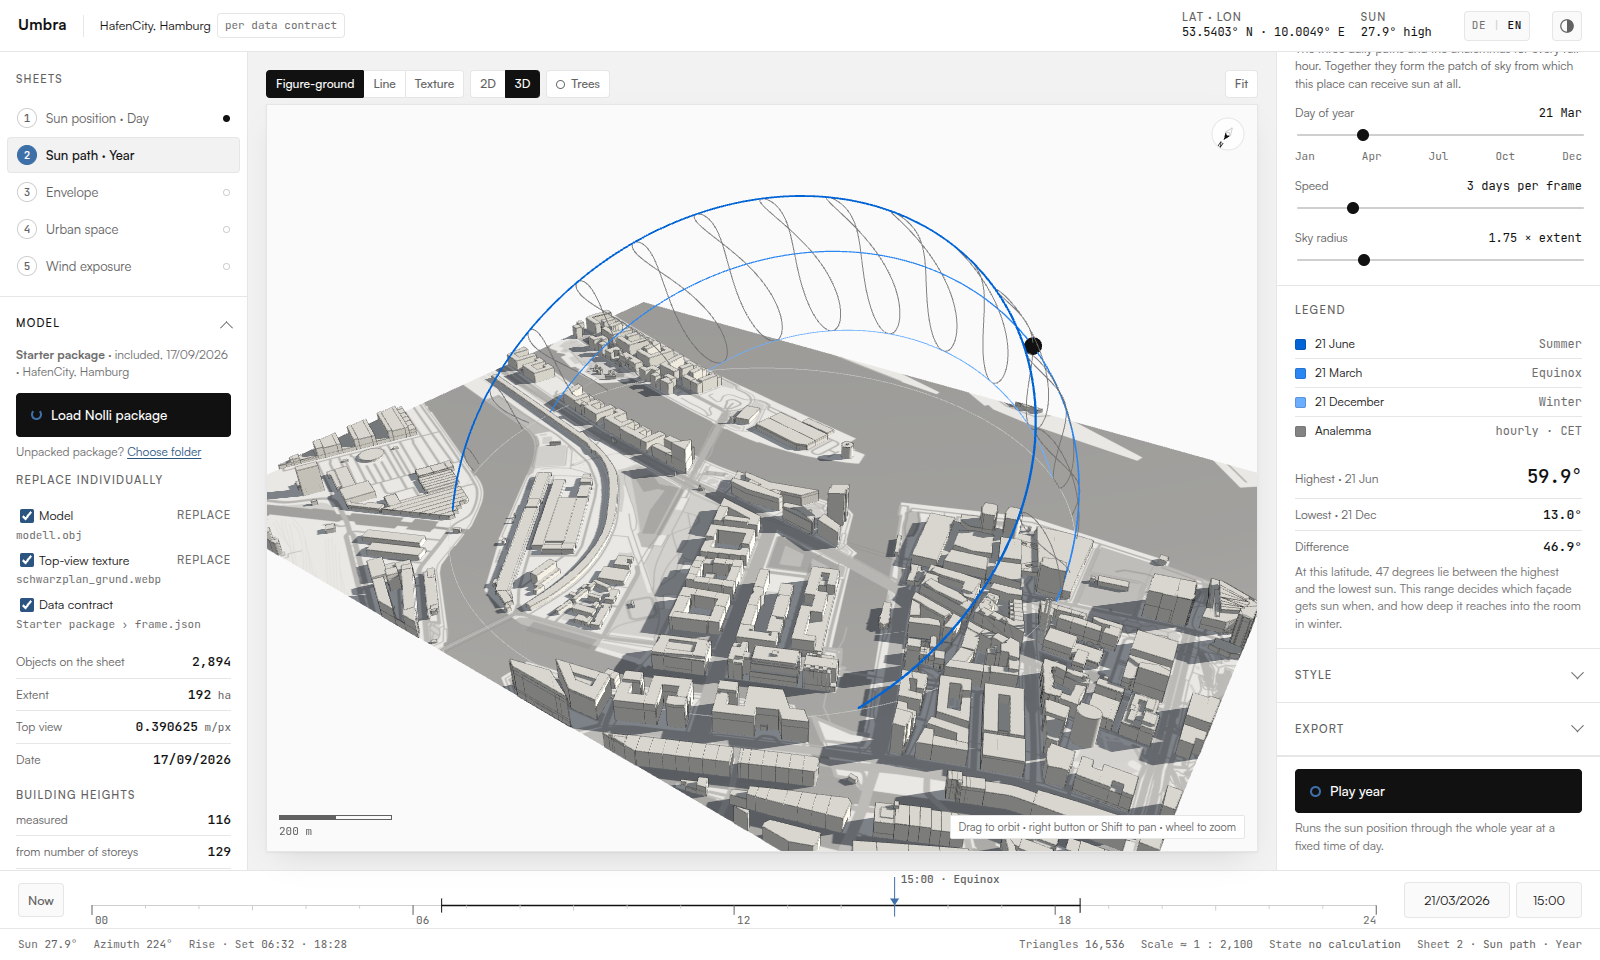
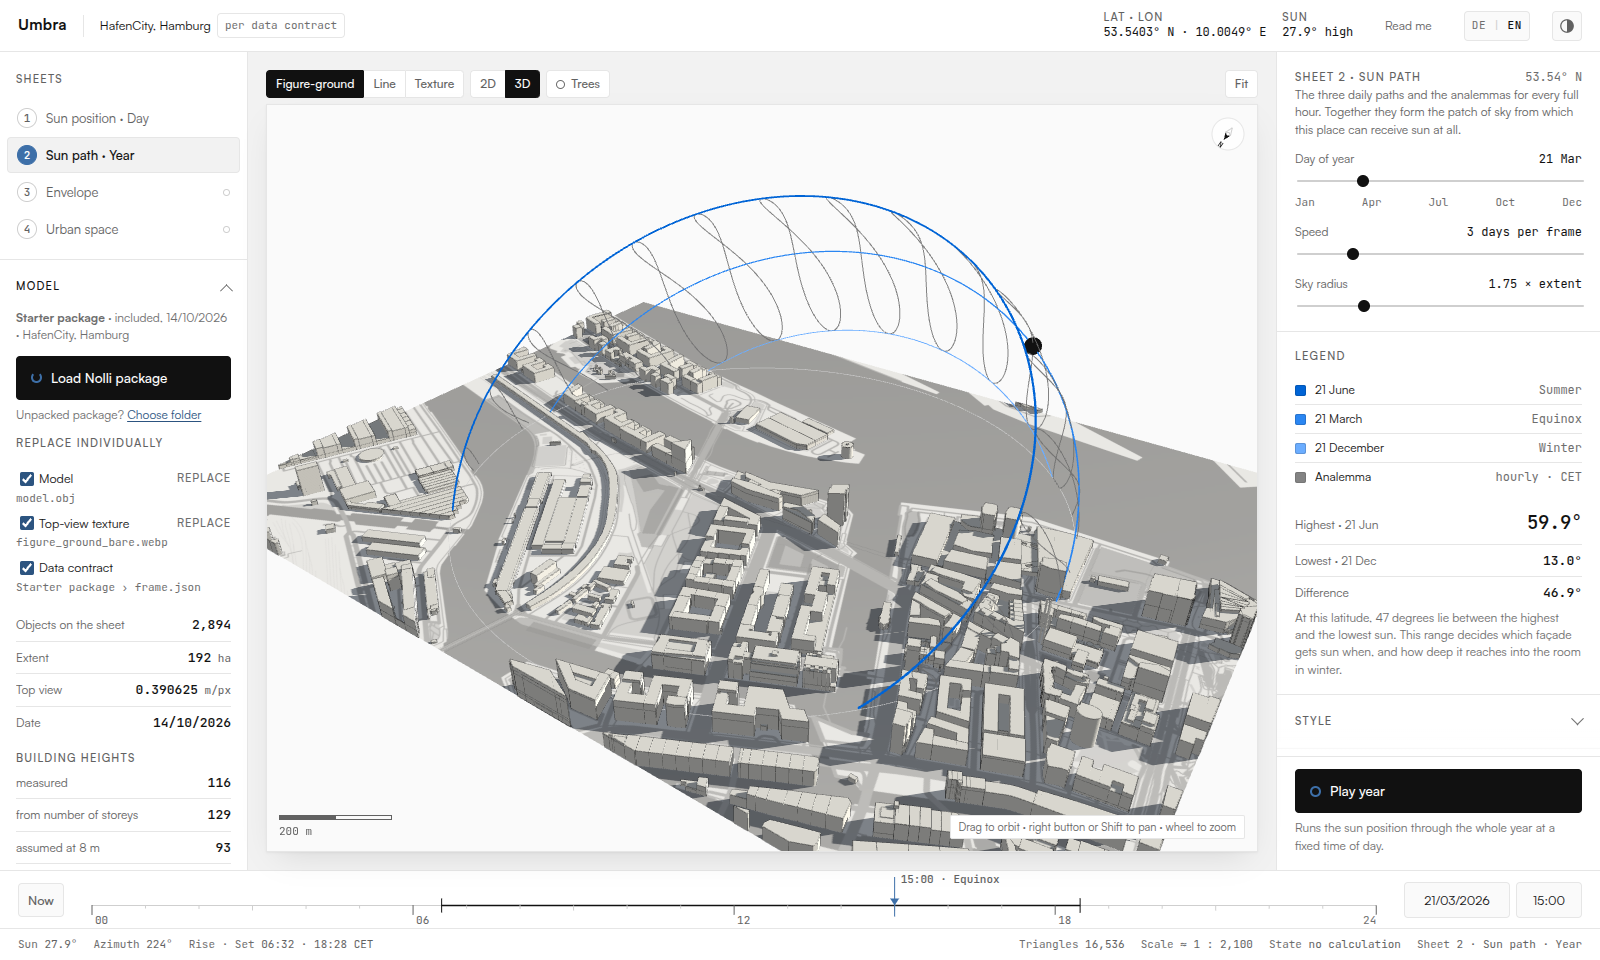
Anleitung im Kopf wie bei Nolli, README für Besucher, helle englische Bilder
Der Link führt auf das README bei GitHub. Das README bekommt einen
Abschnitt zur Bedienung und nennt Zeitzone und Overture-Höhen; die vier
Bildschirmfotos sind neu, hell und englisch, ohne Blatt 5.

diff --git a/umbra.html b/umbra.html
@@ -228,6 +228,15 @@ a { color:var(--akzent); text-underline-offset:2px; text-decoration-thickness:1p
 .sprach-wahl .trenn { color:var(--linie-stark); }
 .sprach-wahl + .schema-knopf { margin-left:var(--reihe); }
 
+/* Anleitung: dieselbe Bauform wie bei Nolli — ein leiser Textlink vor der
+   Sprachwahl, kein Knopf. Er führt hinaus (README auf GitHub), und ein
+   Knopf versprächte eine Handlung in Umbra. */
+.anleitung {
+  flex-shrink:0; margin-left:var(--teil);
+  font-size:12px; color:var(--tinte-2); white-space:nowrap; text-decoration:none;
+}
+.anleitung:hover { color:var(--tinte); text-decoration:underline; text-underline-offset:3px; }
+
 /* ─── Fläche: Register · Bühne · Schiene ────────────────── */
 .flaeche {
   display:grid;
@@ -939,6 +948,8 @@ input[type="file"] { position:absolute; width:1px; height:1px; opacity:0; pointe
       </div>
     </div>
 
+    <a class="anleitung" href="https://github.com/yougop/umbra#readme" target="_blank" rel="noopener"
+       title="Was Umbra rechnet und wo die Grenzen liegen. README auf GitHub, auf Englisch." data-t-title="kopf.anleitungTitel" data-t="kopf.anleitung">Anleitung</a>
     <div class="sprach-wahl" id="sprach-wahl" role="group" aria-label="Sprache" data-t-aria="kopf.spracheAria">
       <button type="button" data-sprache="de" lang="de" aria-pressed="true" aria-label="Deutsch">DE</button><span class="trenn" aria-hidden="true">|</span><button type="button" data-sprache="en" lang="en" aria-pressed="false" aria-label="English">EN</button>
     </div>
@@ -1240,6 +1251,8 @@ const de = {
     fest: 'laut Datenvertrag',
     breiteLaenge: 'Breite · Länge',
     sonne: 'Sonne',
+    anleitung: 'Anleitung',
+    anleitungTitel: 'Was Umbra rechnet und wo die Grenzen liegen. README auf GitHub, auf Englisch.',
     schemaTitel: 'Helles oder dunkles Schema',
     schemaAria: 'Zwischen hellem und dunklem Schema wechseln',
     spracheAria: 'Sprache',
@@ -1634,6 +1647,8 @@ const en = {
     fest: 'per data contract',
     breiteLaenge: 'Lat · Lon',
     sonne: 'Sun',
+    anleitung: 'Read me',
+    anleitungTitel: 'What Umbra computes and where its limits are. README on GitHub.',
     schemaTitel: 'Light or dark scheme',
     schemaAria: 'Switch between light and dark scheme',
     spracheAria: 'Language',

diff --git a/README.md b/README.md
@@ -2,17 +2,20 @@
 
 **Sun, shadow and irradiation on an urban model, in the browser.** Umbra takes a
 site package from [Nolli](https://github.com/yougop/nolli) and computes how
-long a façade is in the sun (checked against DIN 5034-1), how much radiation
-falls on every surface over a period, how much the ground between the
-buildings receives on a hot day.
+long a façade or roof is in the sun (checked against DIN 5034-1), how much
+radiation falls on every surface over a period, and how much the ground
+between the buildings receives on a hot day.
+
+**▶ Open the app: [zinssmeister.info/app/umbra](https://zinssmeister.info/app/umbra/)**
+· Project page: [zinssmeister.info/umbra](https://zinssmeister.info/umbra)
+· Companion tool that makes the site packages:
+[Nolli](https://zinssmeister.info/app/nolli/) ([repository](https://github.com/yougop/nolli))
+· By [Volker Zinssmeister](https://zinssmeister.info/)
 
 Umbra is a single HTML file. There is no build step, no server-side code, no
 account and no API key. Your files are read in the browser and sent nowhere.
 
-**Live:** [zinssmeister.info/app/umbra](https://zinssmeister.info/app/umbra/) ·
-project page [zinssmeister.info/umbra](https://zinssmeister.info/umbra)
-
-![Sheet 1 · Sun position: sunlight check against DIN 5034-1 and the series of four times of day, HafenCity Hamburg](docs/1-sun-position.png)
+![Sheet 1 · Sun position: sunlight check against DIN 5034-1 on a roof, and the series of four times of day, HafenCity Hamburg](docs/1-sun-position.png)
 
 ## Where it sits
 
@@ -23,6 +26,29 @@ year). Umbra computes the same shadows with the **real** sun for the place and
 the moment, in three dimensions, and turns them into hours of sunlight and
 irradiation.
 
+## Using it
+
+Umbra opens with a starter package already loaded: HafenCity, Hamburg. Your own
+site comes in as a Nolli package (see below).
+
+- **Sheets** on the left, or keys **1–4**. Each sheet asks one question; the
+  panel on the right holds its settings, its result and what it does not show.
+- **Time** in the bar at the bottom: drag along the day, type a date and time,
+  or press **Now**. All times are the local time of the site.
+- **View:** drag to orbit, right button or Shift to pan, wheel to zoom.
+  **2D** looks straight down on the package frame, north up, at a true scale.
+- **Ground:** figure-ground, line or the top-view texture from the package.
+  **Trees** switches the crowns from the package on and off.
+- **Markers:** switch them on and click the model to pin a computed value to
+  its place. On sheet 1 the first marker runs the sunlight check.
+- **Export** (right panel): a PNG or a WebM film over the day or the year, with
+  a footer of place, time, sun position, scale and sheet.
+- **DE | EN** switches the language; the half circle next to it switches
+  between light and dark. **Read me** leads here.
+
+The address keeps sheet, time and place (`#blatt=3&t=2026-03-21T15:00&o=…`),
+so a state can be linked.
+
 ## The four sheets
 
 | Sheet | Question | How |
@@ -32,9 +58,9 @@ irradiation.
 | **3 · Envelope** | How much direct radiation hits each façade and roof? | One ray per sub-triangle towards the sun, weighted by the angle of incidence, with self- and neighbour shading. At an instant (W/m²) or summed over a period (Wh/m²). |
 | **4 · Urban space** | What does the ground between the buildings receive on a hot day? | Direct sun where it reaches, plus diffuse radiation weighted by the visible share of sky (72 directions). Hourly values for the hottest day of last summer from Open-Meteo; any other day can be entered. Tree crowns attenuate with an assumed transmission (25 % by default). Also shows the sky view, a proxy for night-time cooling. |
 
-![Sheet 2 · Sun path over the year](docs/2-sun-path.png)
-![Sheet 3 · Envelope: irradiation on every façade and roof](docs/3-envelope.png)
-![Sheet 4 · Urban space: radiation load on a hot day, with markers](docs/4-urban-space.png)
+![Sheet 2 · Sun path over the year: the three daily paths and the hourly analemmas](docs/2-sun-path.png)
+![Sheet 3 · Envelope: direct irradiation on every façade and roof over 21 March](docs/3-envelope.png)
+![Sheet 4 · Urban space: radiation load on the hottest day of last summer, with trees and three markers](docs/4-urban-space.png)
 
 Every sheet can be exported as a PNG or as a WebM film over the day or the
 year, always with a footer of place, time, sun position, scale and sheet —
@@ -59,7 +85,8 @@ qualifies. The caveats come from the data contract, not from Umbra's code:
   uphill; the slope as a shadow caster is missing.
 - **Heights.** Building heights are measured where OpenStreetMap has a
   `height`, otherwise derived from the number of storeys, otherwise assumed at
-  8 m. Umbra shows the breakdown for the buildings (not the building parts,
+  8 m. Buildings that Nolli adds from Overture Maps carry a height estimated
+  from aerial imagery and are counted as estimated, not measured. Umbra shows the breakdown for the buildings (not the building parts,
   which flatter the figure): in the starter package 116 measured, 129 from
   storeys, 93 assumed — 28 % of the buildings but 44 % of the footprint area.
 - **Sheet 1** measures on the façade, not at the window centre inside as the
@@ -87,6 +114,13 @@ If the package has `model_outside.obj` (the parts of buildings beyond the
 frame edge), Umbra loads it too: those parts are invisible but still cast
 shadows into the frame. The `terrain` and `trees` bodies are always dropped:
 Umbra has its own ground and draws its trees from `data/trees.json`.
+
+The contract also carries the **time zone** of the site, and Umbra computes
+the sun in that local time. Older packages without it get their zone from
+Open-Meteo; offline, Umbra falls back to a zone from the longitude and says
+so. Buildings added from **Overture Maps** are loaded like all others and
+credited under the licence line; Overture places (`data/places.json`) are not
+used.
 
 Both contract versions are read. Nolli writes **contract v2** since 14 October
 2026 (`"contract": "nolli", "contract_version": 2`, English field and file
